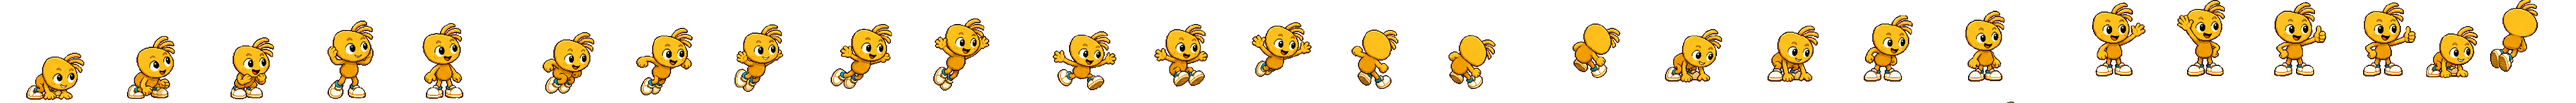
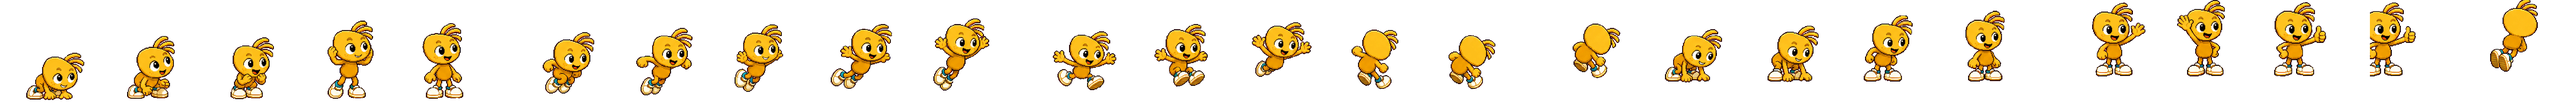
visually correct Sunny cover animation

Changed region(s): [[0.935, 0.2625, 0.9662, 0.7583]]

diff --git a/app/globals.css b/app/globals.css
@@ -478,6 +478,7 @@ body::before { position: fixed; z-index: -1; inset: -100vmax; content: ''; backg
   position: absolute;
   z-index: 3;
   inset: 0;
+  display: block;
   width: 100%;
   height: 100%;
   pointer-events: none;
@@ -509,14 +510,14 @@ body::before { position: fixed; z-index: -1; inset: -100vmax; content: ''; backg
   position: absolute;
   z-index: 4;
   left: 50%;
-  top: 19%;
+  top: 8%;
   opacity: 0;
-  padding: .42em .62em .34em;
-  border: 3px solid #fff4cb;
+  padding: .3em .5em .26em;
+  border: 2px solid #fff4cb;
   color: #082b31;
   background: #f6bd24;
-  box-shadow: 4px 4px 0 #082b31;
-  font: 900 clamp(16px, 2vw, 30px)/1 var(--font-pixel), monospace;
+  box-shadow: 3px 3px 0 #082b31;
+  font: 900 clamp(14px, 1.7vw, 24px)/1 var(--font-pixel), monospace;
   letter-spacing: .1em;
   white-space: nowrap;
   transform-origin: 50% 100%;
@@ -529,15 +530,15 @@ body::before { position: fixed; z-index: -1; inset: -100vmax; content: ''; backg
   13% { opacity: 1; transform: translate(-24%, 84%) scale(.9); }
   20% { opacity: 1; transform: translate(-17%, 54%) scale(.94); }
   27% { opacity: 1; transform: translate(-10%, 25%) scale(.98); animation-timing-function: cubic-bezier(.16, .74, .2, 1); }
-  34% { opacity: 1; transform: translate(-4%, -36%) rotate(-2deg) scale(1); }
-  42% { opacity: 1; transform: translate(0, -106%) rotate(1deg) scale(1); animation-timing-function: cubic-bezier(.55, 0, .82, .34); }
-  47% { opacity: 1; transform: translate(0, -119%) rotate(1deg) scale(1); }
-  54% { opacity: 1; transform: translate(0, -76%) scale(1); }
-  60% { opacity: 1; transform: translate(0, -30%) scale(1); }
-  64%, 83% { opacity: 1; transform: translate(0, -30%) scale(1); }
-  87% { opacity: 1; transform: translate(1%, -27%) scale(1); animation-timing-function: cubic-bezier(.5, 0, .8, .28); }
-  92% { opacity: 1; transform: translate(4%, 28%) rotate(1deg) scale(.96); }
-  97% { opacity: 1; transform: translate(9%, 92%) rotate(2deg) scale(.9); }
+  34% { opacity: 1; transform: translate(-4%, -28%) rotate(-2deg) scale(1); }
+  42% { opacity: 1; transform: translate(0, -62%) rotate(1deg) scale(1); animation-timing-function: cubic-bezier(.55, 0, .82, .34); }
+  47% { opacity: 1; transform: translate(0, -70%) rotate(1deg) scale(1); }
+  54% { opacity: 1; transform: translate(0, -52%) scale(1); }
+  60% { opacity: 1; transform: translate(0, -15%) scale(1); }
+  64%, 89% { opacity: 1; transform: translate(0, -15%) scale(1); }
+  92% { opacity: 1; transform: translate(1%, -12%) scale(1); animation-timing-function: cubic-bezier(.5, 0, .8, .28); }
+  95% { opacity: 1; transform: translate(4%, 28%) rotate(1deg) scale(.96); }
+  98% { opacity: 1; transform: translate(9%, 92%) rotate(2deg) scale(.9); }
   100% { opacity: 0; transform: translate(12%, 112%) rotate(2deg) scale(.86); }
 }
 @keyframes sunny-cover-frames {
@@ -553,19 +554,16 @@ body::before { position: fixed; z-index: -1; inset: -100vmax; content: ''; backg
   25%, 27.49% { background-position: 37.5% center; }
   27.5%, 29.99% { background-position: 41.6667% center; }
   30%, 32.49% { background-position: 45.8333% center; }
-  32.5%, 34.99% { background-position: 50% center; }
-  35%, 37.49% { background-position: 54.1667% center; }
-  37.5%, 39.99% { background-position: 58.3333% center; }
-  40%, 42.49% { background-position: 62.5% center; }
-  42.5%, 44.99% { background-position: 66.6667% center; }
-  45%, 47.49% { background-position: 70.8333% center; }
-  47.5%, 49.99% { background-position: 75% center; }
-  50%, 53.99% { background-position: 79.1667% center; }
-  54%, 57.99% { background-position: 83.3333% center; }
-  58%, 61.99% { background-position: 87.5% center; }
-  62%, 83.99% { background-position: 91.6667% center; }
-  84%, 87.99% { background-position: 95.8333% center; }
-  88%, 100% { background-position: 100% center; }
+  32.5%, 39.99% { background-position: 50% center; }
+  40%, 44.99% { background-position: 66.6667% center; }
+  45%, 49.99% { background-position: 70.8333% center; }
+  50%, 53.99% { background-position: 75% center; }
+  54%, 57.99% { background-position: 79.1667% center; }
+  58%, 61.99% { background-position: 83.3333% center; }
+  62%, 65.99% { background-position: 87.5% center; }
+  66%, 89.99% { background-position: 91.6667% center; }
+  90%, 94.99% { background-position: 95.8333% center; }
+  95%, 100% { background-position: 100% center; }
 }
 @keyframes sunny-cover-body {
   0%, 25% { transform: scale(1); }
@@ -574,20 +572,30 @@ body::before { position: fixed; z-index: -1; inset: -100vmax; content: ''; backg
   48% { transform: scale(1); }
   59% { transform: scale(.98, 1.02); }
   62% { transform: scale(1.06, .94); }
-  66%, 83% { transform: scale(1); }
-  87% { transform: scale(1.05, .95); }
-  93% { transform: scale(.98, 1.03); }
+  66%, 89% { transform: scale(1); }
+  92% { transform: scale(1.05, .95); }
+  96% { transform: scale(.98, 1.03); }
   100% { transform: scale(1); }
 }
 @keyframes sunny-cover-name-pop {
-  0%, 59% { opacity: 0; transform: translate(-50%, 10px) scale(.55) rotate(-3deg); }
-  63% { opacity: 1; transform: translate(-50%, 0) scale(1.12) rotate(1deg); }
-  67%, 82% { opacity: 1; transform: translate(-50%, 0) scale(1) rotate(0); }
-  86%, 100% { opacity: 0; transform: translate(-50%, -8px) scale(.88); }
+  0%, 64% { opacity: 0; transform: translate(-50%, 8px) scale(.65) rotate(-2deg); }
+  68% { opacity: 1; transform: translate(-50%, 0) scale(1.08) rotate(1deg); }
+  72%, 88% { opacity: 1; transform: translate(-50%, 0) scale(1) rotate(0); }
+  92%, 100% { opacity: 0; transform: translate(-50%, -6px) scale(.9); }
 }
 @media (orientation: landscape) {
-  .sunny-cover-character { left: 31%; top: -1%; width: 13%; }
-  .sunny-cover-name { left: 37.5%; top: 5%; font-size: clamp(15px, 1.7vw, 26px); }
+  .sunny-cover-character { left: 31%; top: 8%; width: 13%; }
+  .sunny-cover-name {
+    left: 37.5%;
+    top: .5%;
+    padding: 0;
+    border: 0;
+    color: #082b31;
+    background: transparent;
+    box-shadow: none;
+    text-shadow: 1px 1px 0 #fff4cb;
+    font-size: clamp(10px, 1.1vw, 15px);
+  }
 }
 .home-dashboard {
   position: absolute;
@@ -708,7 +716,7 @@ body::before { position: fixed; z-index: -1; inset: -100vmax; content: ''; backg
   .home-cover-scene, .home-cover-scene img { width: 100%; height: 100%; }
   .home-cover-scene img { object-fit: cover; object-position: center; }
   .sunny-cover-character { top: 28.5%; }
-  .sunny-cover-name { top: 17%; }
+  .sunny-cover-name { top: 8%; }
   .home-dashboard {
     position: static;
     height: auto;
@@ -744,8 +752,8 @@ body::before { position: fixed; z-index: -1; inset: -100vmax; content: ''; backg
   .home-panel { width: min(700px, calc(100% - 24px)); max-height: calc(100svh - 16px); overflow-x: hidden; overflow-y: auto; overscroll-behavior: contain; scrollbar-width: thin; }
   .home-cover-scene, .home-cover-scene img { width: 100%; height: 100%; }
   .home-cover-scene img { object-fit: cover; object-position: center center; }
-  .sunny-cover-character { left: 31%; top: -5%; width: 13%; }
-  .sunny-cover-name { top: 3%; font-size: clamp(15px, 1.7vw, 26px); }
+  .sunny-cover-character { left: 31%; top: 8%; width: 13%; }
+  .sunny-cover-name { top: 1%; font-size: clamp(15px, 1.7vw, 26px); }
   .home-dashboard {
     min-height: 174px;
     grid-template-columns: .85fr 1.1fr 1fr;
@@ -793,7 +801,7 @@ body::before { position: fixed; z-index: -1; inset: -100vmax; content: ''; backg
 .game-modal > button, .game-modal .secondary, .panel-close { min-height: 44px; }
 
 @media (max-height: 560px) and (orientation: landscape) {
-  .home-cover-scene img { object-position: center top; }
+  .home-cover-scene img, .home-cover-title-foreground img { object-position: center top; }
   .home-dashboard { min-height: 168px; grid-template-rows: 88px 50px; gap: 8px 16px; padding-block: 8px 7px; }
   .home-dashboard .daily-course, .home-dashboard .daily-glance, .home-dashboard .play-button { min-height: 86px; padding-block: 8px; }
   .home-dashboard .daily-course { height: 86px; gap: 3px 8px; overflow: hidden; }
@@ -1064,7 +1072,7 @@ body::before { position: fixed; z-index: -1; inset: -100vmax; content: ''; backg
 }
 
 @media (prefers-reduced-motion: reduce) {
-  .sunny-cover-character { opacity: 1; transform: translateY(-30%); animation: none; }
+  .sunny-cover-character { opacity: 1; transform: translateY(-15%); animation: none; }
   .sunny-cover-sprite { background-position: 91.6667% center; transform: none; animation: none; }
   .sunny-cover-name { display: none; animation: none; }
 }
